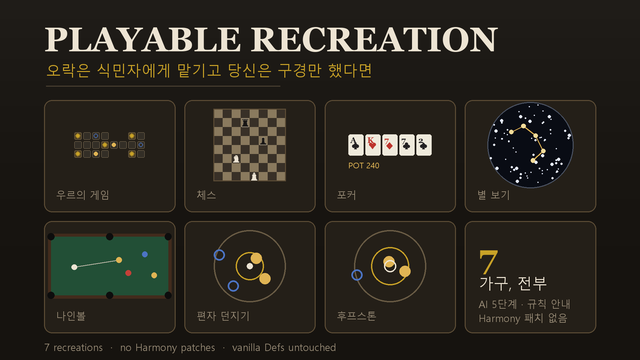
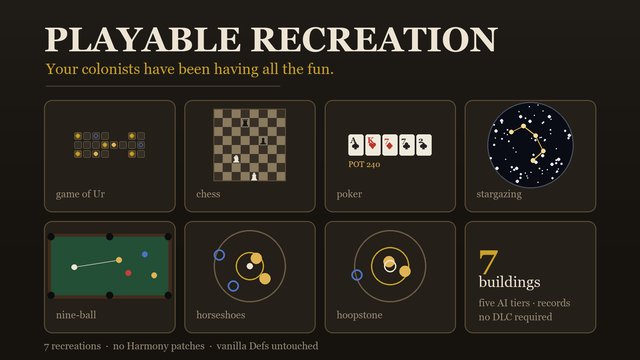
썸네일도 영어로
창작마당에서 이 그림을 처음 보는 사람의 언어가 영어다. 부제와 일곱 칸의 이름,
오른쪽 아래 요약을 모두 영어로 옮겼다. 한글이 사라졌으니 글꼴도 맑은 고딕이 아니라
조지아를 먼저 본다 - 제목이 이미 조지아 볼드라 이제 한 벌로 읽힌다.

요약 칸의 마지막 줄은 "Harmony 패치 없음" 이었는데 맨 아래 띠가 이미 같은 말을
하고 있었다. DLC 가 필요 없다는 사실로 바꾼다. 그게 더 궁금한 것이다.

diff --git a/Tools/make_art.py b/Tools/make_art.py
@@ -242,13 +242,13 @@ def preview():
         d.line([(0, i), (W, i)], fill=(BITUMEN[0] + v, BITUMEN[1] + v, BITUMEN[2] + v))
 
     title_f = font(['georgiab.ttf', 'timesbd.ttf', 'malgunbd.ttf'], 34 * S)
-    sub_f = font(['malgun.ttf', 'georgia.ttf'], 15 * S)
-    cap_f = font(['malgun.ttf', 'georgia.ttf'], 10 * S)
+    sub_f = font(['georgia.ttf', 'malgun.ttf'], 15 * S)
+    cap_f = font(['georgia.ttf', 'malgun.ttf'], 10 * S)
     CARD_FONT = font(['georgiab.ttf', 'timesbd.ttf'], 8 * S)
-    TAG_FONT = font(['malgun.ttf', 'georgia.ttf'], 8 * S)
+    TAG_FONT = font(['georgia.ttf', 'malgun.ttf'], 8 * S)
 
     d.text((44 * S, 20 * S), 'PLAYABLE RECREATION', font=title_f, fill=SHELL)
-    d.text((46 * S, 60 * S), u'오락은 식민자에게 맡기고 당신은 구경만 했다면',
+    d.text((46 * S, 60 * S), 'Your colonists have been having all the fun.',
            font=sub_f, fill=GOLD)
     d.line([(46 * S, 86 * S), (280 * S, 86 * S)], fill=(0x4A, 0x40, 0x31), width=max(1, S))
 
@@ -268,7 +268,7 @@ def preview():
 
     # 1. 우르
     box = cell(0)
-    panel(d, box, u'우르의 게임', cap_f)
+    panel(d, box, 'game of Ur', cap_f)
     bw = COLS * (7 * S + 2 * S) - 2 * S
     bh = ROWS * (7 * S + 2 * S) - 2 * S
     bx, by = art_origin(box, bw, bh)
@@ -276,27 +276,27 @@ def preview():
 
     # 2. 체스
     box = cell(1)
-    panel(d, box, u'체스', cap_f)
+    panel(d, box, 'chess', cap_f)
     chess_panel(img, d, box)
 
     # 3. 포커
     box = cell(2)
-    panel(d, box, u'포커', cap_f)
+    panel(d, box, 'poker', cap_f)
     poker_panel(img, d, box)
 
     # 4. 별 보기
     box = cell(3)
-    panel(d, box, u'별 보기', cap_f)
+    panel(d, box, 'stargazing', cap_f)
     sky_panel(d, box)
 
     # 5. 나인볼
     box = cell(4)
-    panel(d, box, u'나인볼', cap_f)
+    panel(d, box, 'nine-ball', cap_f)
     pool_panel(d, box)
 
     # 6. 편자
     box = cell(5)
-    panel(d, box, u'편자 던지기', cap_f)
+    panel(d, box, 'horseshoes', cap_f)
     cx = (box[0] + box[2]) / 2
     cy = box[1] + (height - 22 * S) / 2
     rings(d, cx, cy, [36 * S, 14 * S],
@@ -305,7 +305,7 @@ def preview():
 
     # 7. 후프스톤
     box = cell(6)
-    panel(d, box, u'후프스톤', cap_f)
+    panel(d, box, 'hoopstone', cap_f)
     cx = (box[0] + box[2]) / 2
     rings(d, cx, cy, [36 * S, 19 * S],
           [(0.95, 165, 'b'), (0.44, 20, 'p'), (0.12, 255, 'p')])
@@ -315,10 +315,10 @@ def preview():
     box = cell(7)
     d.rounded_rectangle(box, radius=8 * S, fill=BOARD_BG, outline=(0x5C, 0x4C, 0x35), width=max(1, S))
 
-    lines = [(u'7', title_f, GOLD, 16 * S),
-             (u'가구, 전부', sub_f, SHELL, 52 * S),
-             (u'AI 5단계 · 규칙 안내', cap_f, DIM, 76 * S),
-             (u'Harmony 패치 없음', cap_f, DIM, 90 * S)]
+    lines = [('7', title_f, GOLD, 16 * S),
+             ('buildings', sub_f, SHELL, 52 * S),
+             ('five AI tiers · records', cap_f, DIM, 76 * S),
+             ('no DLC required', cap_f, DIM, 90 * S)]
 
     for text, face, colour, offset in lines:
         d.text((box[0] + 14 * S, box[1] + offset), text, font=face, fill=colour)
